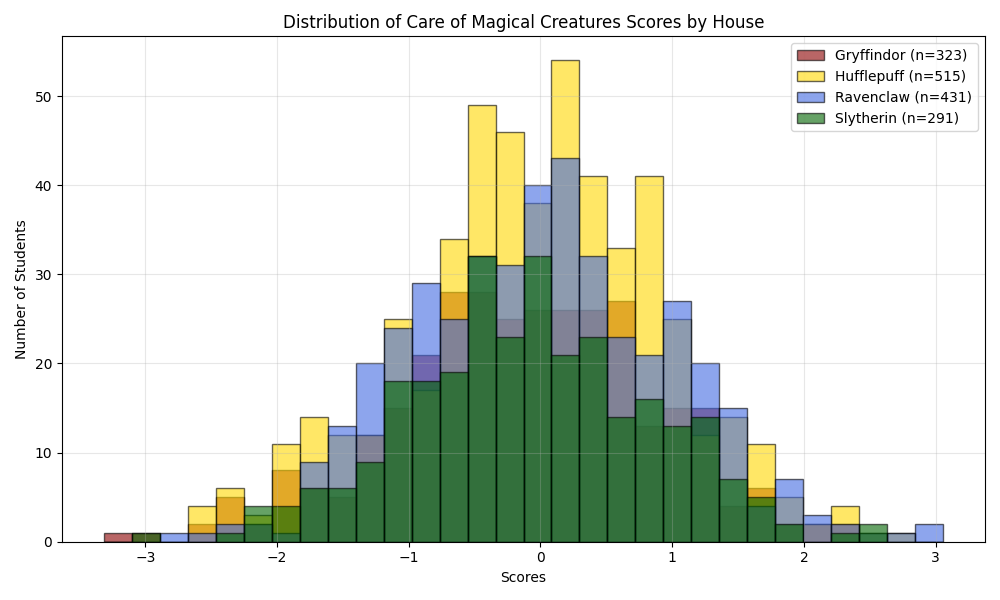
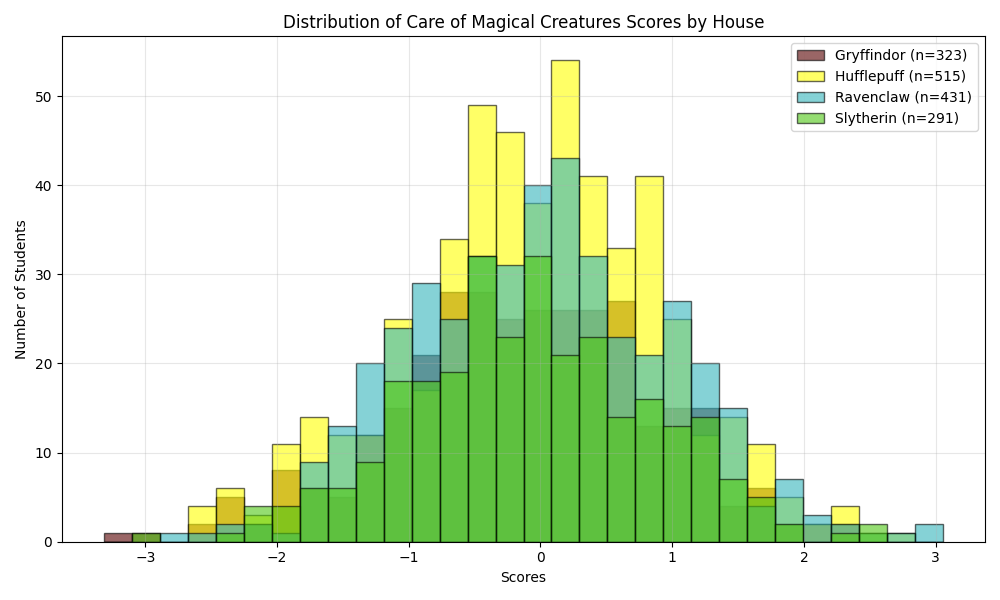
push: added enum class for types of colors

Changed region(s): [[0.093, 0.24, 0.961, 0.93], [0.775, 0.15, 0.837, 0.21], [0.806, 0.09, 0.837, 0.12]]

diff --git a/core/visualizations.py b/core/visualizations.py
@@ -1,6 +1,15 @@
 import matplotlib.pyplot as plt
 import numpy as np
-from .operations import filter_numeric_values, is_nan, min_max
+from .operations import filter_numeric_values, min_max
+from enum import Enum
+
+class Colors(Enum):
+    DARK = "#000000"
+    RED = "#570101"
+    YELLOW = "#FFFF0000"
+    BLUE = "#34B5BC8A"
+    GREEN = "#4FC714FF"
+
 
 def histo(df, subject="Care of Magical Creatures", bins=30):
     """
@@ -13,12 +22,12 @@ def histo(df, subject="Care of Magical Creatures", bins=30):
     """
     houses = ["Gryffindor", "Hufflepuff", "Ravenclaw", "Slytherin"]
     colors = {
-        "Gryffindor": "darkred",
-        "Hufflepuff": "gold",
-        "Ravenclaw": "royalblue",
-        "Slytherin": "darkgreen"
+        "Gryffindor": Colors.RED.value,
+        "Hufflepuff": Colors.YELLOW.value,
+        "Ravenclaw": Colors.BLUE.value,
+        "Slytherin": Colors.GREEN.value
     }
-    
+
     # Validate column names
     if "Hogwarts House" not in df.columns:
         raise ValueError("DataFrame must contain 'Hogwarts House' column")
@@ -32,7 +41,7 @@ def histo(df, subject="Care of Magical Creatures", bins=30):
         score = df[subject][i]
         
         # Check if both house and score are valid
-        if isinstance(house, str) and house in houses and isinstance(score, (int, float)) and not is_nan(score):
+        if isinstance(house, str) and house in houses and isinstance(score, (int, float)) and not np.isnan(score):
             house_scores[house].append(score)
     
     # Check if we have data to plot
@@ -62,7 +71,7 @@ def histo(df, subject="Care of Magical Creatures", bins=30):
                     alpha=0.6,
                     label=f"{house} (n={len(house_scores[house])})",
                     color=colors[house],
-                    edgecolor="black"
+                    edgecolor=Colors.DARK.value
                 )
     
     plt.title(f"Distribution of {subject} Scores by House")

diff --git a/histogram.py b/histogram.py
@@ -1,22 +1,26 @@
 from core.visualizations import histo
-from core.operations import read_csv
+from core.operations import validate
 
 def main():
-    df = read_csv("dataset_train.csv")
-    
-    # Show counts of each house
-    houses = {}
-    for i in range(df.shape[0]):
-        house = df["Hogwarts House"][i]
-        if isinstance(house, str):
-            houses[house] = houses.get(house, 0) + 1
-    
-    print("\nHouse counts:")
-    for house, count in houses.items():
-        print(f"  {house}: {count}")
-    
-    # Generate the histogram
-    histo(df)
+    try:
+        df = validate("dataset_train.csv")
+        
+        # Show counts of each house
+        houses = {}
+        for i in range(df.shape[0]):
+            house = df["Hogwarts House"][i]
+            
+            if isinstance(house, str):
+                houses[house] = houses.get(house, 0) + 1
+        
+        print("\nHouse counts:")
+        for house, count in houses.items():
+            print(f"\t{house}: {count}")
+        
+        # Generate the histogram
+        histo(df)
+    except Exception as e:
+        print(f"{type(e).__name__}: {e}")
 
 if __name__ == "__main__":
     main()
